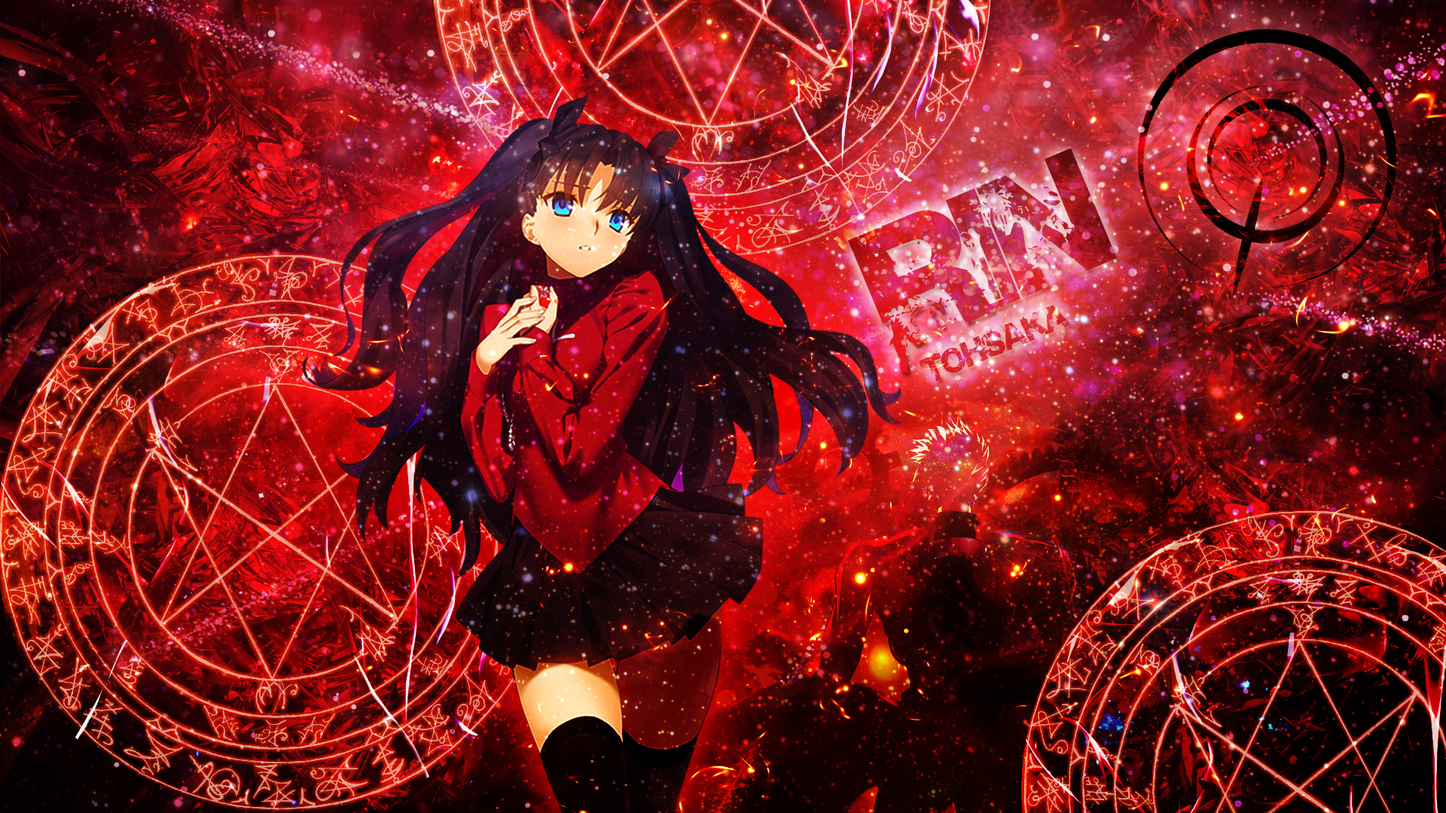
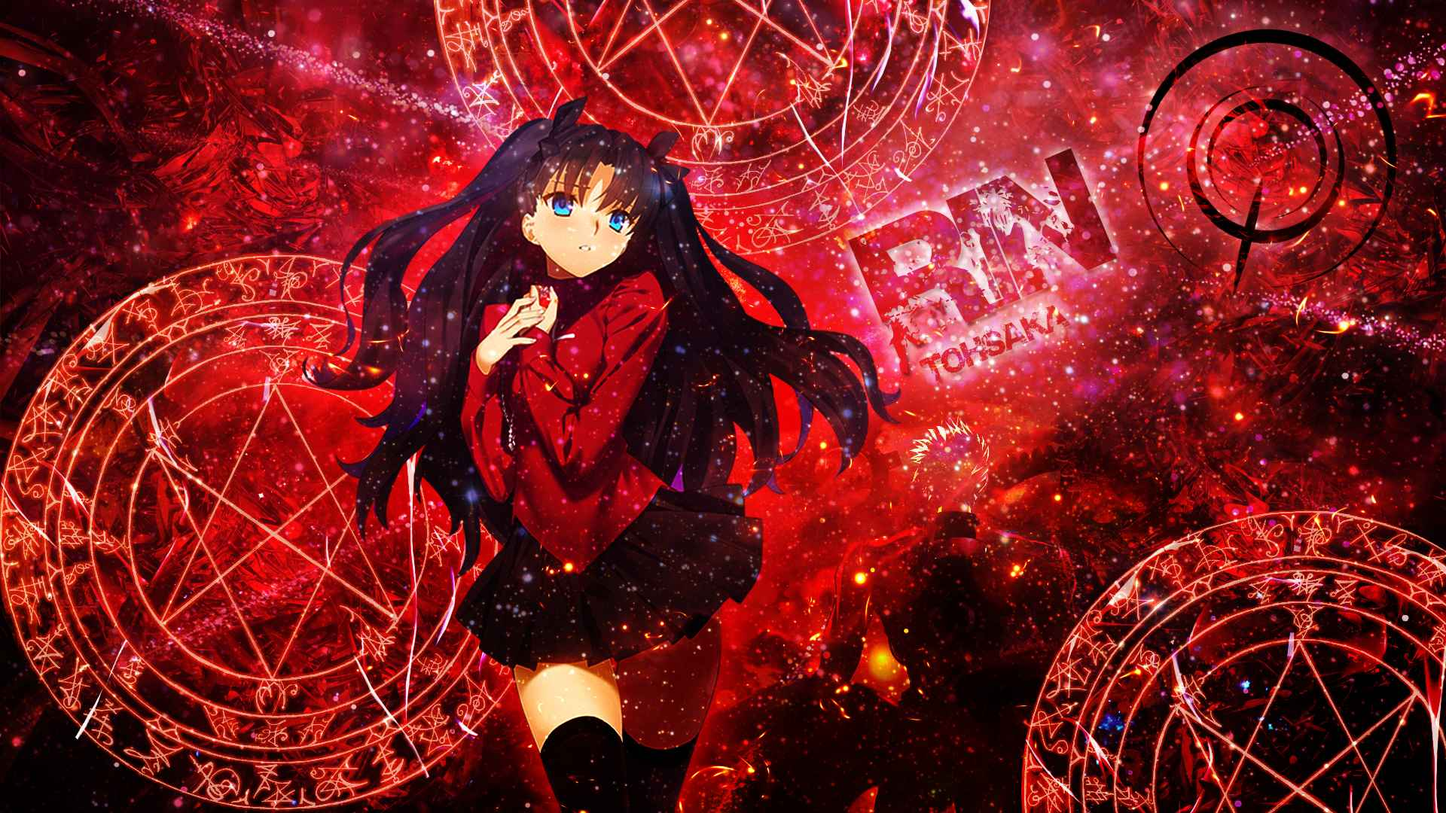
图片压缩

diff --git a/source/_posts/2024-10-08.md b/source/_posts/2024-10-08.md
@@ -5,7 +5,7 @@ categories: [随笔]
 cover: /images/jt/blog/695599.jpg
 banner: /images/jt/blog/695599.jpg
 poster:
-  topic: 随笔
+  topic: 2024-10-08
   headline: 随笔
 date: 2024-10-08 00:00:00
 description:

diff --git a/source/_posts/2024-10-02.md b/source/_posts/2024-10-02.md
@@ -5,7 +5,7 @@ categories: [随笔]
 cover: /images/jt/blog/695599.jpg
 banner: /images/jt/blog/695599.jpg
 poster:
-  topic: 随笔
+  topic: 2024-10-03
   headline: 随笔
 date: 2024-10-3 15:15:08
 description:

diff --git a/source/_posts/阿里云服务器.md b/source/_posts/阿里云服务器.md
@@ -4,7 +4,7 @@ topic:
 cover: /images/jt/blog/629534.jpg
 banner: /images/jt/blog/629534.jpg
 poster:
-date: 2024-05-17 14:09:52
+date: 2024-10-18 14:09:52
 description:
 ---
 # 阿里云服务器
